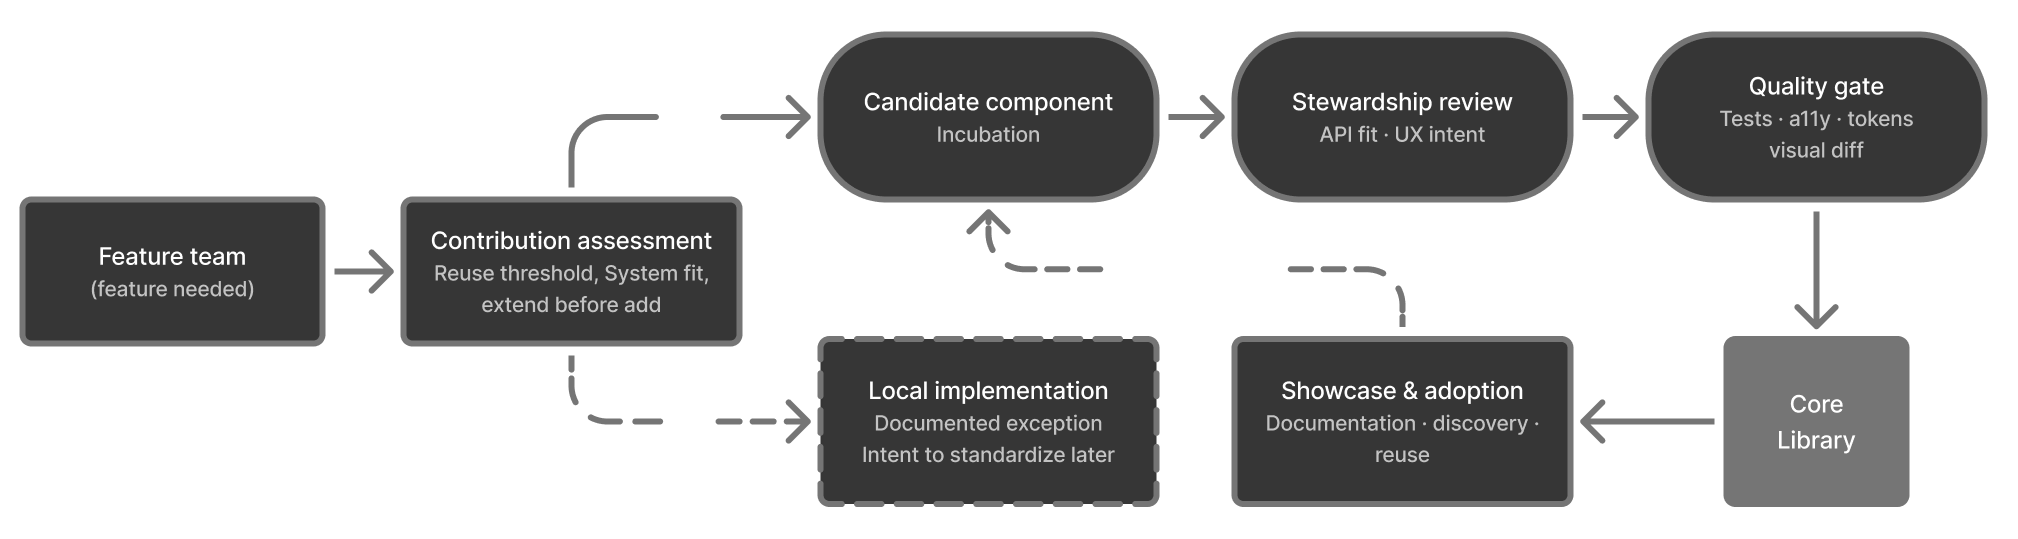
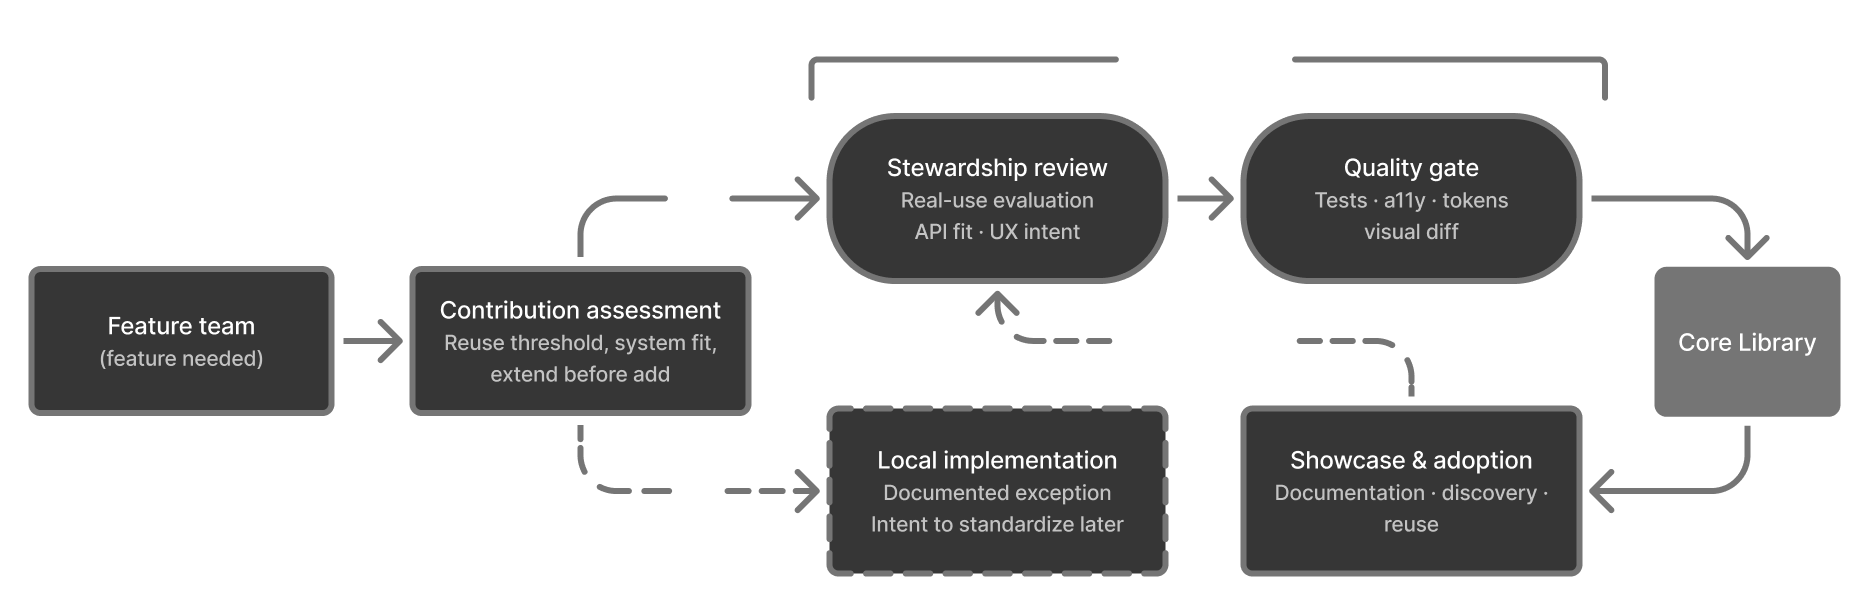
Awin DS - Goverance improvements

diff --git a/projects/awin-design-system.html b/projects/awin-design-system.html
@@ -280,20 +280,13 @@
                                 <p>On top: atomic component hierarchy, WCAG AA contrast with data-viz palettes, an 8pt spacing system with density variants, and Inter typography for legibility in dense tables.</p>
 
                                 <h3>4. Governance and Adoption</h3>
-                                <p>I introduced a hybrid contribution model: a small stewardship team owned foundations and tokens; product squads contributed components back. New components started in an incubation period where the selection criteria was:
+                                <p>I introduced a hybrid contribution model: a small stewardship team owned foundations and tokens; product squads contributed components back. New components had to meet three criteria before they were built:
                                     <ul>
                                         <li><strong>Reach</strong>: used in more than 2 scenarios?</li>
                                         <li><strong>Fit</strong>: brand-agnostic and fits across diverse contexts?</li>
-                                        <li><strong>Build vs extend</strong>: extendable with existing primitives?</li>
+                                        <li><strong>Build vs extend</strong>: can the system already cover this?</li>
                                     </ul>
-                                <p>Components moved through three maturity states <strong>Local, Candidate, Core</strong>. Unmet criteria didn't mean rejection but a documented local path.</p>
-                                <p><a class="link" href="#"
-                                        data-toggle="quality-gates"
-                                        data-show-text="See review process"
-                                        data-hide-text="Hide review process">See review process<svg class="toggle-caret" xmlns="http://www.w3.org/2000/svg" width="14" height="14" viewBox="0 0 24 24" fill="none" stroke="currentColor" stroke-width="2.5" stroke-linecap="round" stroke-linejoin="round"><polyline points="6 9 12 15 18 9"/></svg></a></p>
-                                <div id="quality-gates" class="collapsible mb-4">
-                                    <p>Review was split into three sequential stages, each with one judgment: <strong>incubation</strong> validated the component in two real product contexts; <strong>stewardship review</strong> assessed API fit and UX intent; the <strong>quality gate</strong> ran a11y tests, token lint, and visual diff before merge. Splitting the review meant reviewers specialised, regressions stayed contained to one stage, and accessibility was never the thing that got deferred when a deadline got tight.</p>
-                                </div>
+                                <p>New-built components then entered a review or "incubation" period before adding them to the core library. This included real-use evaluation in product contexts, API fit and UX intent assessment. Additionally a final quality gate (a11y tests, token lint, and visual diff) before merge. Unmet criteria didn't mean rejection but a documented local path.</p>
 
                             </div>
                         </div>
@@ -302,7 +295,7 @@
                             <!-- Left column -->
                             <div class="col-span-12 md:col-span-6 flex flex-col gap-4">
                                 <figure
-                                    class="p-4 min-h-[220px] flex flex-col h-full justify-center items-center bg-neutral-300 dark:bg-neutral-800">
+                                    class="p-4 min-h-[220px] flex flex-col justify-center items-center bg-neutral-300 dark:bg-neutral-800">
                                     <img data-src-light="/images/awin-spacing-system-light.png"
                                         data-src-dark="/images/awin-spacing-system-dark.png" alt="Awin spacing system"
                                         class="theme-image w-full object-contain">
@@ -316,7 +309,7 @@
                                         data-src-dark="/images/awin-contribution-model-dark.png"
                                         data-src-light="/images/awin-contribution-model-light.png"
                                         alt="Contribution model"
-                                        class="theme-image lightbox-trigger cursor-zoom-in w-full max-h-full object-contain min-h-0">
+                                        class="theme-image lightbox-trigger cursor-zoom-in w-full object-contain min-h-0">
                                     <figcaption class="text-center flex-none mb-2">
                                         Contribution model
                                     </figcaption>
@@ -324,15 +317,15 @@
                             </div>
 
                             <!-- Right column -->
-                            <div class="col-span-12 md:col-span-6 flex flex-col gap-4">
+                            <div class="col-span-12 md:col-span-6 flex flex-col gap-4 h-full">
 
                                 <!-- Col split -->
                                 <div class="grid grid-cols-2 gap-4">
                                     <figure
-                                        class="p-4 bg-neutral-300 dark:bg-neutral-800 min-h-[180px] flex flex-col h-full justify-center items-center">
+                                        class="p-4 bg-neutral-300 dark:bg-neutral-800 min-h-[180px] flex flex-col justify-center items-center">
                                         <img data-src-light="/images/awin-research-screenshots.png"
                                             alt="Behavioural analytics"
-                                            class="theme-image lightbox-trigger cursor-zoom-in w-full h-full object-contain flex-1">
+                                            class="theme-image lightbox-trigger cursor-zoom-in w-full object-contain flex-1">
 
                                         <figcaption class="text-center">
                                             Behavioural analytics
@@ -351,20 +344,20 @@
                                     </figure>
                                 </div>
                                 <figure
-                                    class="p-4 bg-neutral-300 dark:bg-neutral-800 min-h-[180px] flex flex-col justify-center items-center">
+                                    class="p-4 bg-neutral-300 dark:bg-neutral-800 min-h-[180px] flex flex-col h-full justify-center items-center">
 
                                     <img data-src-light="/images/awin-pilot-matrix.png"
                                         alt="Pilot page prioritization matrix"
-                                        class="theme-image lightbox-trigger cursor-zoom-in w-full object-contain transition-transform duration-300 ease-in-out group-hover:scale-[1.02]">
+                                        class="theme-image lightbox-trigger cursor-zoom-in w-full h-full object-contain transition-transform duration-300 ease-in-out group-hover:scale-[1.02]">
                                     <figcaption class="text-center">
                                         Prioritization Matrix
                                     </figcaption>
                                 </figure>
                                 <figure
-                                    class="p-4 bg-neutral-300 dark:bg-neutral-800 min-h-[180px] flex flex-col justify-center items-center">
+                                    class="p-4 bg-neutral-300 dark:bg-neutral-800 min-h-[180px] flex flex-col h-full justify-center items-center">
                                     <img data-src-light="/images/awin-token-taxonomy-light.png"
                                         data-src-dark="/images/awin-token-taxonomy-dark.png" alt="Awin token taxonomy"
-                                        class="theme-image w-full object-contain">
+                                        class="theme-image w-full h-full object-contain">
                                     <figcaption class="text-center">
                                         Token taxonomy
                                     </figcaption>
